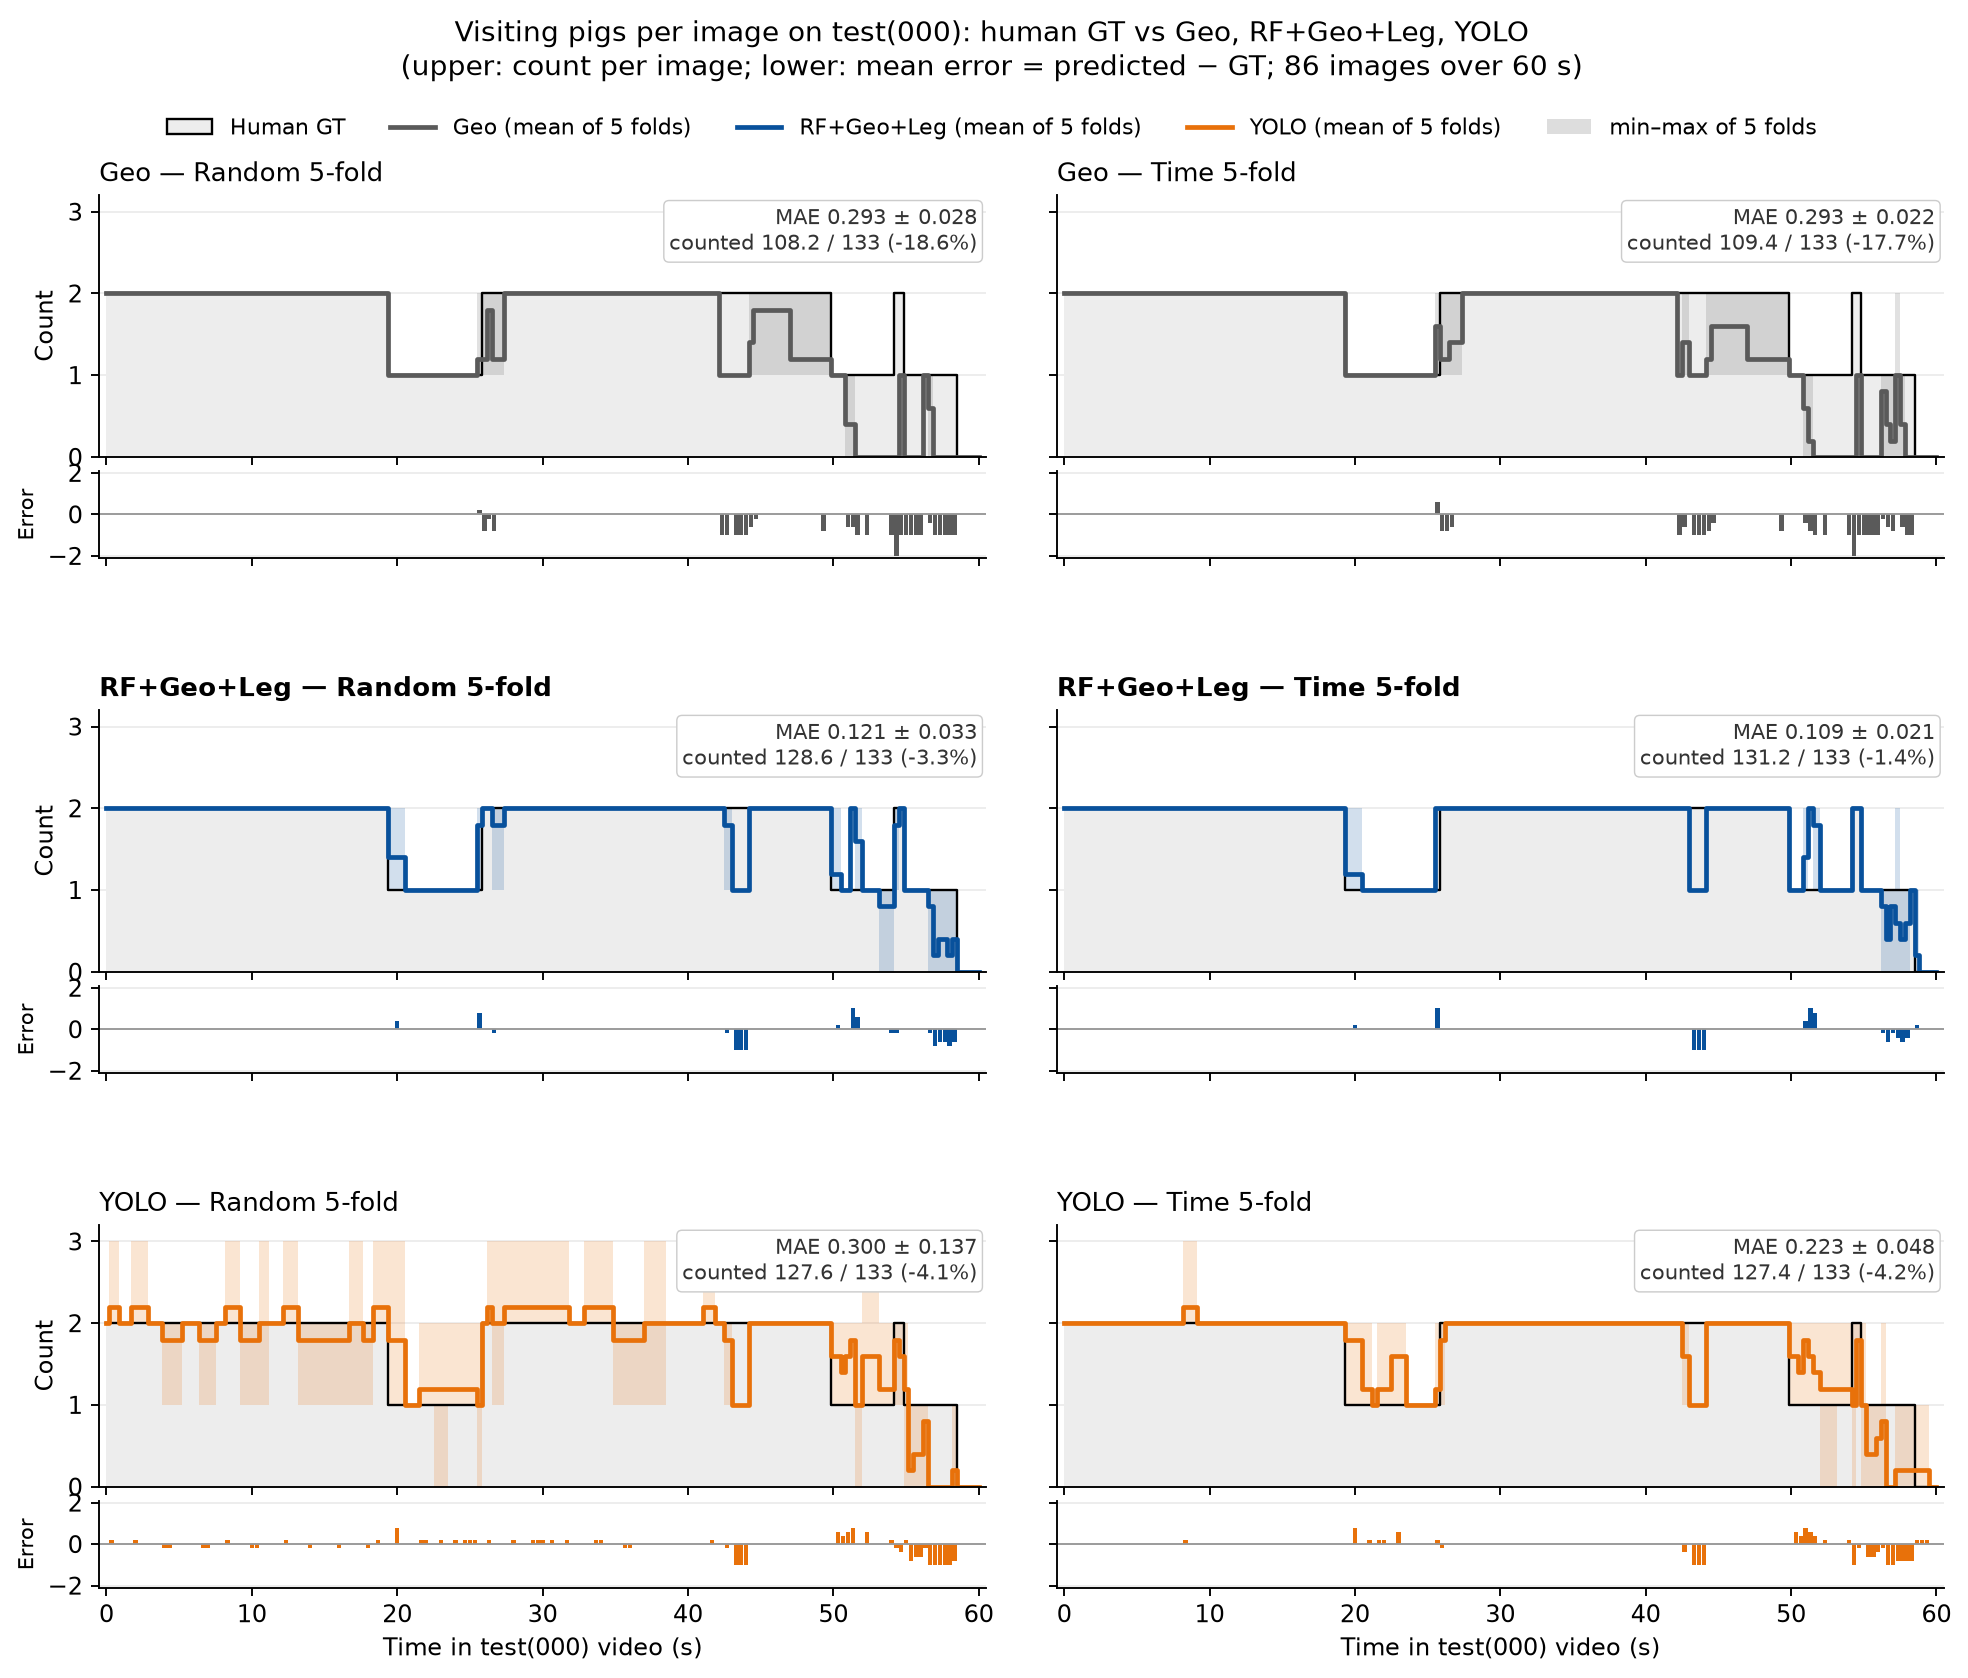
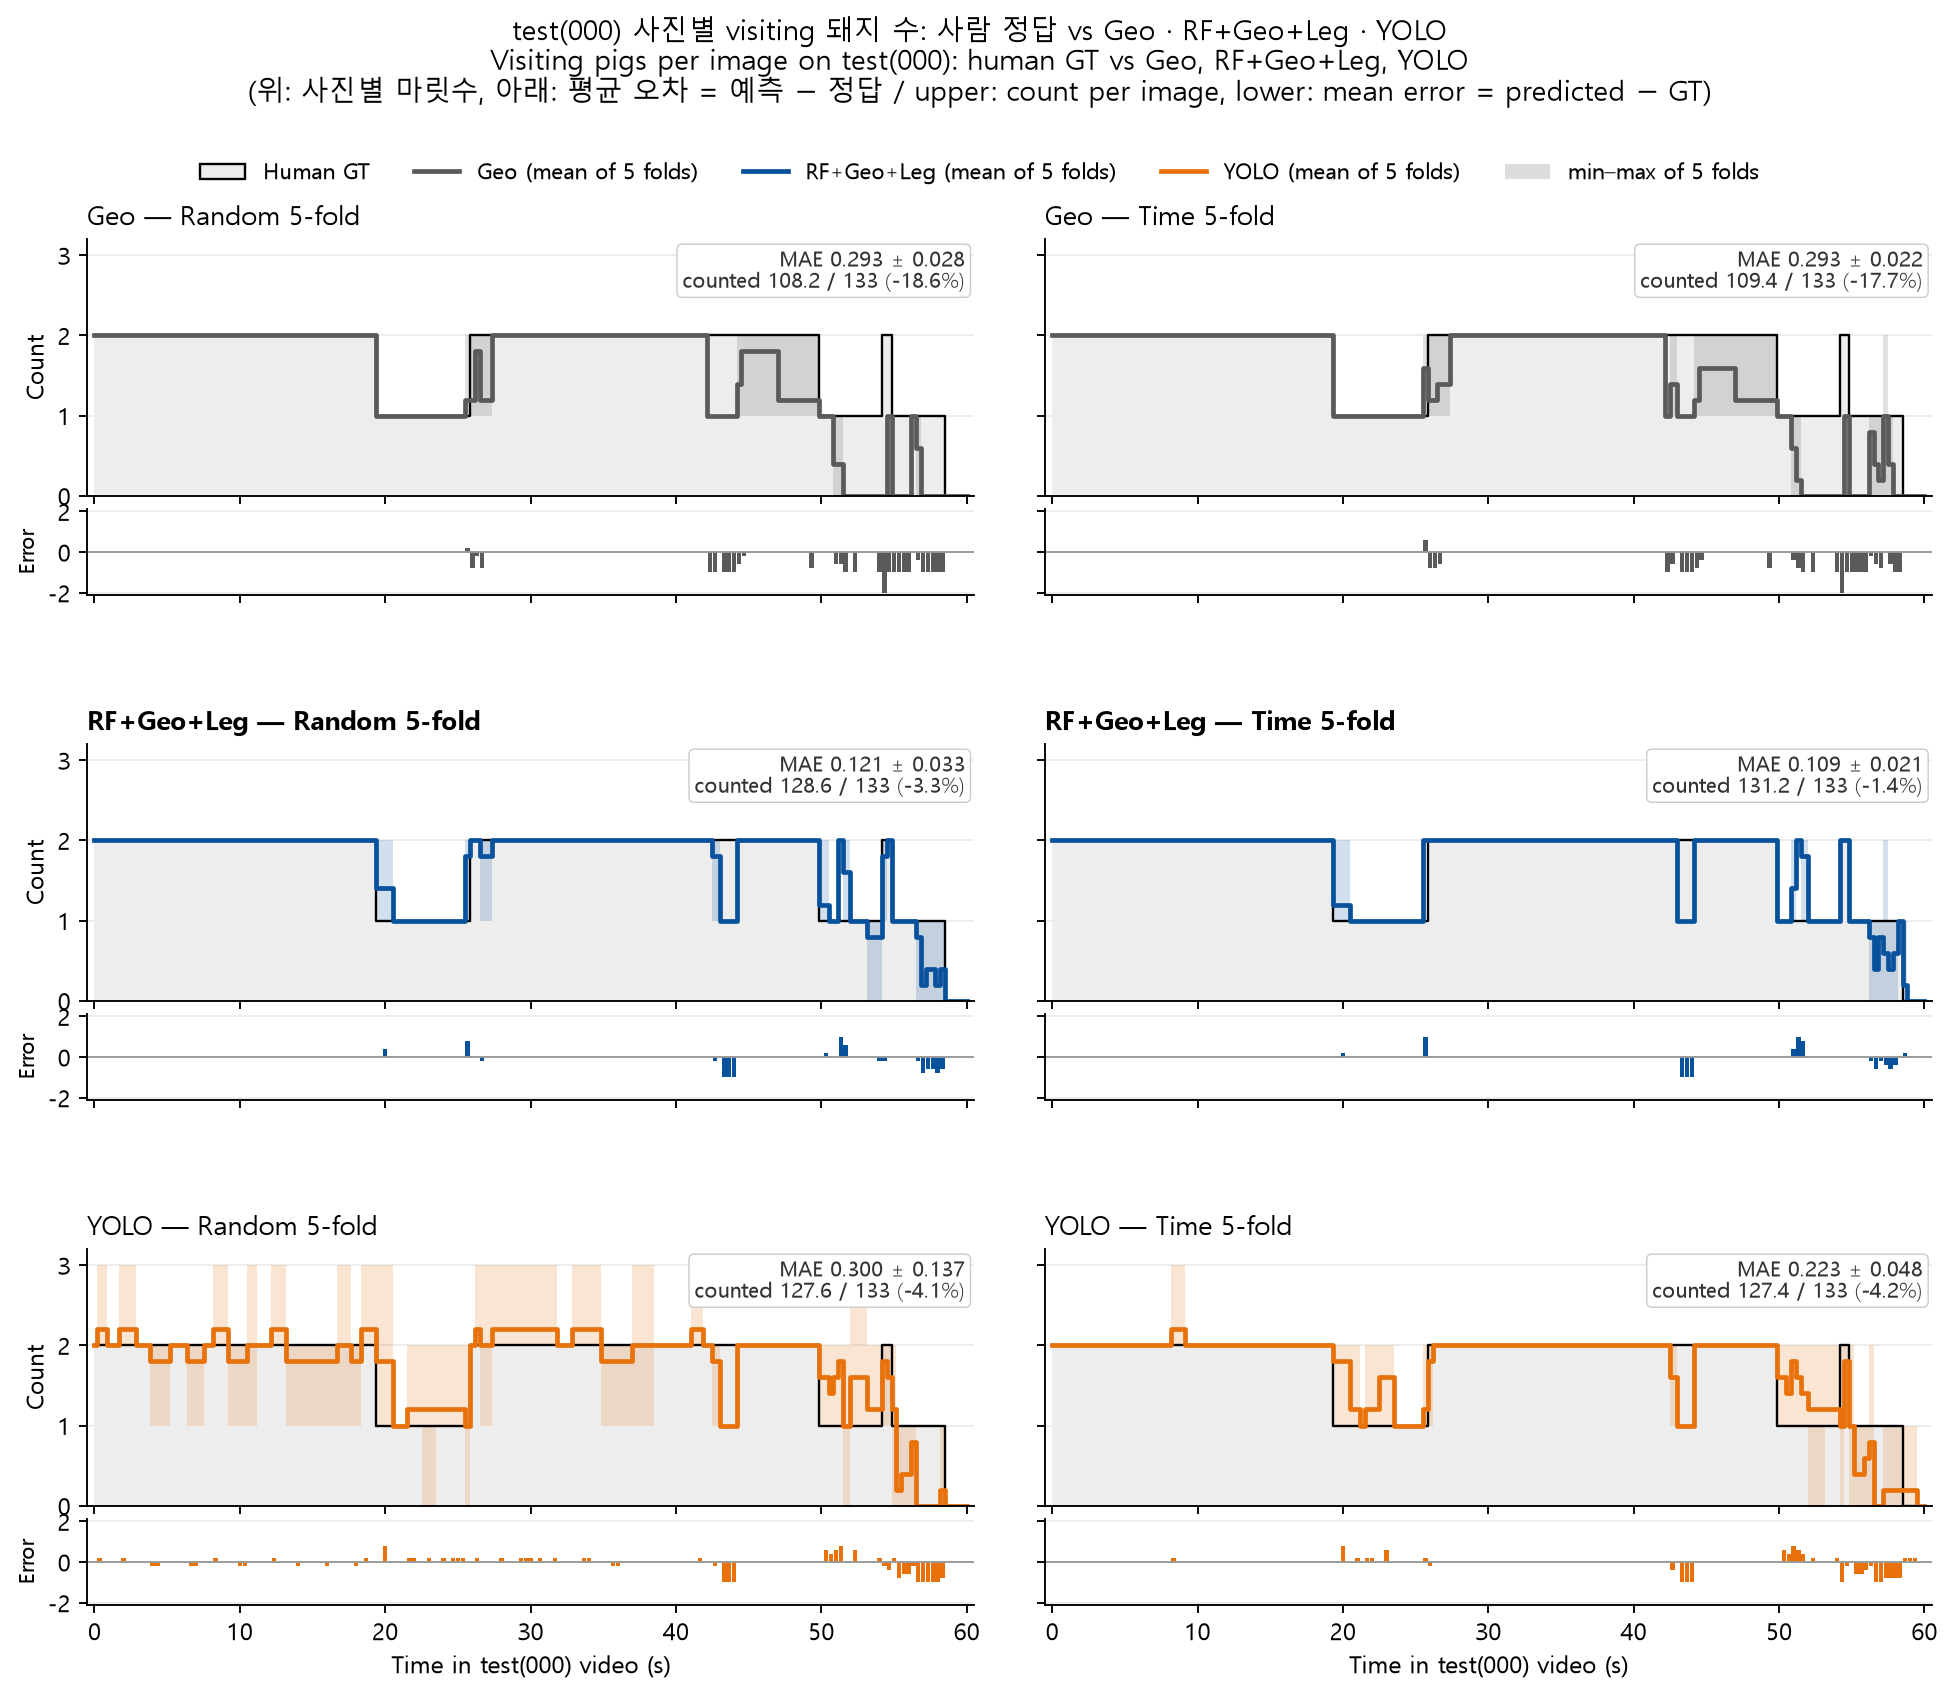
Graphs H, I, J: titles in Korean and English (Malgun Gothic); cumulative-plot label leaders start at label edge

diff --git a/counting/scripts/plot_counts_3methods.py b/counting/scripts/plot_counts_3methods.py
@@ -29,6 +29,8 @@ METHODS = [("geo", "Geo"), ("rf_geo_leg", "RF+Geo+Leg"), ("yolo", "YOLO")]
 SCHEMES = [("rk5", "Random 5-fold"), ("k5", "Time 5-fold")]
 COLOR = {"gt": "#000000", "geo": "#5a5a5a", "rf_geo_leg": "#08519c", "yolo": "#e8710a"}
 GT_FILL = "#ededed"
+plt.rcParams["font.family"] = ["Malgun Gothic", "DejaVu Sans"]   # 제목 한국어 + 영어 (Windows 맑은 고딕)
+plt.rcParams["axes.unicode_minus"] = False
 FPS = 24          # 000 = 1분 샘플 영상, 프레임 번호 0~1440 → 1440 / 60 s = 24 fps로 환산 (초 = 프레임 번호 / 24)
 plt.rcParams.update({"font.size": 10, "axes.titlesize": 11})
 
@@ -100,10 +102,12 @@ def plot_h():
     handles = [Patch(fc=GT_FILL, ec=COLOR["gt"], lw=1.0, label="Human GT"),
                *[Line2D([], [], color=COLOR[m], lw=2.0, label=f"{lab} (mean of 5 folds)") for m, lab in METHODS],
                Patch(fc="#9e9e9e", alpha=0.35, lw=0, label="min–max of 5 folds")]
-    fig.legend(handles=handles, loc="upper center", ncol=5, frameon=False, fontsize=9.5, bbox_to_anchor=(0.5, 0.945))
-    fig.suptitle("Visiting pigs per image on test(000): human GT vs Geo, RF+Geo+Leg, YOLO\n"
-                 "(upper: count per image; lower: mean error = predicted − GT; 86 images over 60 s)", fontsize=12, y=0.99)
-    fig.subplots_adjust(top=0.89)
+    fig.legend(handles=handles, loc="upper center", ncol=5, frameon=False, fontsize=9.5, bbox_to_anchor=(0.5, 0.93))
+    fig.suptitle("test(000) 사진별 visiting 돼지 수: 사람 정답 vs Geo · RF+Geo+Leg · YOLO\n"
+                 "Visiting pigs per image on test(000): human GT vs Geo, RF+Geo+Leg, YOLO\n"
+                 "(위: 사진별 마릿수, 아래: 평균 오차 = 예측 − 정답 / upper: count per image, lower: mean error = predicted − GT)",
+                 fontsize=12, y=1.0)
+    fig.subplots_adjust(top=0.875)
     fig.savefig(FS / "graph_H_counts_3methods.png", dpi=170, bbox_inches="tight")
     plt.close(fig)
 
@@ -132,7 +136,7 @@ def plot_i():
         for (v, lab, col), y in zip(ends, ys):
             ax.annotate(f"{lab} {v:.1f}" if lab != "Human GT" else f"{lab} {v:.0f}", xy=(60, v),
                         xytext=(61.5, y), fontsize=9, color="#222222", va="center",
-                        arrowprops=dict(arrowstyle="-", color=col, lw=0.8))
+                        arrowprops=dict(arrowstyle="-", color=col, lw=0.8, relpos=(0, 0.5), shrinkA=1))
         ax.set_xlim(0, 60.5)
         ax.set_xticks(range(0, 61, 10))
         ax.set_title(slab, loc="left")
@@ -141,7 +145,9 @@ def plot_i():
         ax.spines[["top", "right"]].set_visible(False)
     axes[0].set_ylabel("Cumulative count")
     axes[0].legend(frameon=False, fontsize=9, loc="upper left")
-    fig.suptitle("Cumulative visiting count over test(000): human GT vs Geo, RF+Geo+Leg, YOLO "
+    fig.suptitle("test(000) 60초 누적 visiting 돼지 수: 사람 정답 vs Geo · RF+Geo+Leg · YOLO "
+                 "(선 = fold 모델 5개 평균, 띠 = 최소~최대)\n"
+                 "Cumulative visiting count over test(000): human GT vs Geo, RF+Geo+Leg, YOLO "
                  "(line = mean of 5 fold models, band = min–max)", fontsize=11.5)
     fig.tight_layout()
     fig.subplots_adjust(right=0.9, wspace=0.28)
@@ -175,9 +181,10 @@ def plot_j():
         ax.spines[["top", "right"]].set_visible(False)
         ax.legend(frameon=True, framealpha=0.95, edgecolor="#dddddd", fontsize=9, loc="upper right", ncol=2)
     axes[-1].set_xlabel("Time in test(000) video (s)")
-    fig.suptitle("Visiting pigs counted per image on test(000): human GT vs Geo, RF+Geo+Leg, YOLO\n"
-                 "(line = mean of 5 fold models; lines offset by −0.06 / 0 / +0.06 so overlapping lines stay visible)",
-                 fontsize=11.5)
+    fig.suptitle("test(000) 사진별 visiting 돼지 수: 사람 정답 vs Geo · RF+Geo+Leg · YOLO\n"
+                 "Visiting pigs counted per image on test(000): human GT vs Geo, RF+Geo+Leg, YOLO\n"
+                 "(선 = fold 모델 5개 평균, 겹친 선이 보이도록 −0.06 / 0 / +0.06 띄움 / "
+                 "line = mean of 5 fold models, offset −0.06 / 0 / +0.06 for visibility)", fontsize=11.5)
     fig.tight_layout()
     fig.savefig(FS / "graph_J_counts_overlay.png", dpi=170, bbox_inches="tight")
     plt.close(fig)
@@ -217,9 +224,12 @@ def plot_j_single(axis="sec"):
         ax.spines[["top", "right"]].set_visible(False)
         ax.legend(frameon=True, framealpha=0.95, edgecolor="#dddddd", fontsize=9, loc="upper right", ncol=2)
         span = "86 images" if axis == "frame" else "60-s video"
-        ax.set_title(f"{slab} — visiting pigs per image on test(000) ({span}): human GT vs Geo, RF+Geo+Leg, YOLO\n"
-                     "line = mean of 5 fold models; lines offset by −0.06 / 0 / +0.06 so overlapping lines stay visible",
-                     fontsize=11, loc="left")
+        span_ko = "사진 86장" if axis == "frame" else "60초 영상"
+        ax.set_title(f"{slab} — test(000) 사진별 visiting 돼지 수 ({span_ko}): 사람 정답 vs Geo · RF+Geo+Leg · YOLO\n"
+                     f"{slab} — Visiting pigs per image on test(000) ({span}): human GT vs Geo, RF+Geo+Leg, YOLO\n"
+                     "선 = fold 모델 5개 평균, 겹친 선이 보이도록 −0.06 / 0 / +0.06 띄움 · "
+                     "line = mean of 5 fold models, offset −0.06 / 0 / +0.06 for visibility",
+                     fontsize=10.5, loc="left")
         fig.tight_layout()
         suffix = "_frames" if axis == "frame" else ""
         fig.savefig(FS / f"graph_J_{'random' if p == 'rk5' else 'time'}_5fold{suffix}.png", dpi=170, bbox_inches="tight")
